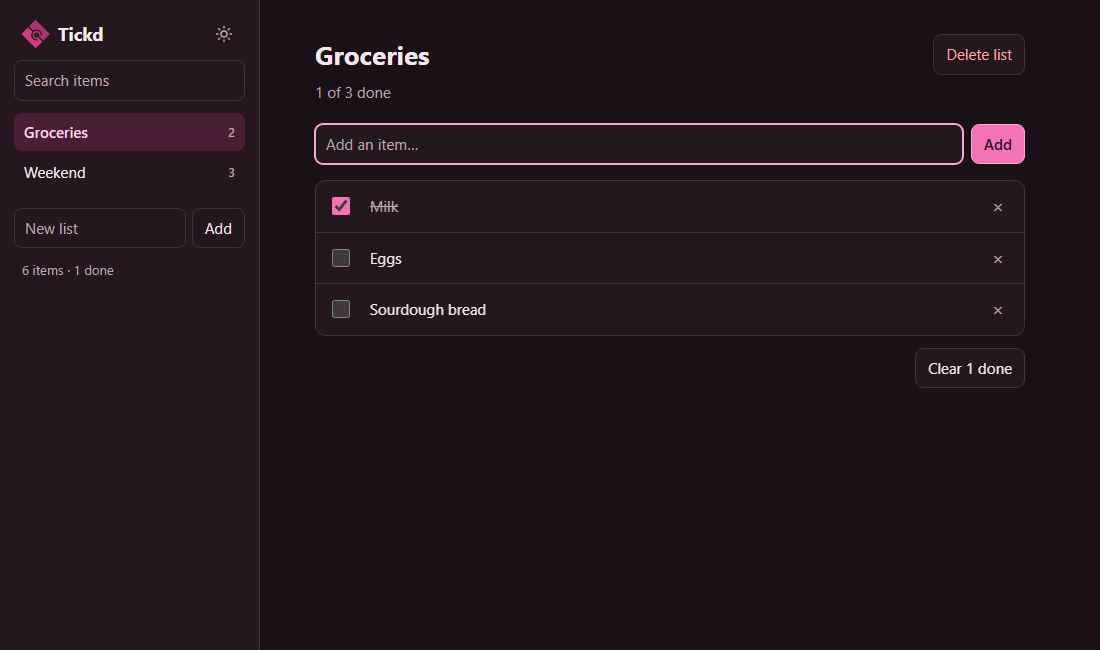
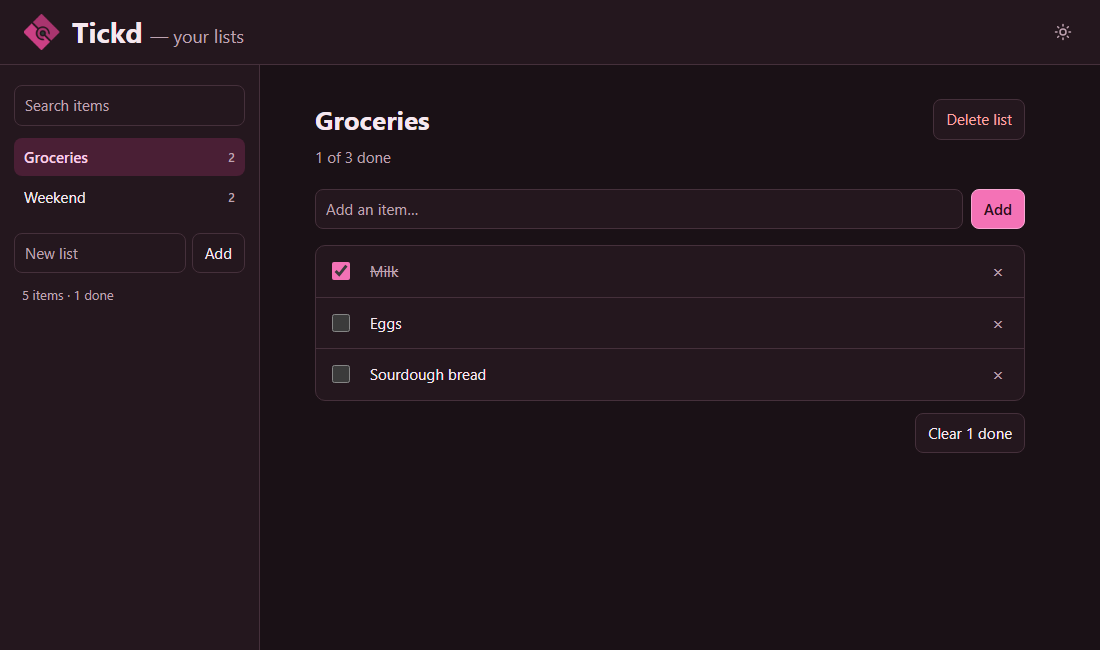
Add a big app title header
A full-width header across the top shows the logo and "Tickd — your
lists" as the page's h1, with the theme toggle on the right. It
replaces the small brand row at the top of the sidebar, which now
starts with search. The content area becomes a <main> landmark.

diff --git a/index.html b/index.html
@@ -52,15 +52,32 @@
       font: 15px/1.5 system-ui, -apple-system, "Segoe UI", Roboto, sans-serif;
       color: var(--ink);
       background: var(--bg);
+      /* Header on top, app columns fill the rest of the screen. */
+      min-height: 100vh;
+      display: flex;
+      flex-direction: column;
     }
     button, input { font: inherit; color: inherit; }
     ::placeholder { color: var(--muted); opacity: 1; }
     button { cursor: pointer; }
 
+    /* App title bar (styled by class only; .header is the list title row inside main). */
+    .topbar {
+      display: flex;
+      align-items: center;
+      gap: 12px;
+      padding: 14px 24px;
+      background: var(--panel);
+      border-bottom: 1px solid var(--line);
+    }
+    .topbar img { width: 36px; height: 36px; flex: none; }
+    .topbar h1 { margin: 0; font-size: 28px; line-height: 1.2; }
+    .tagline { font-size: 18px; font-weight: 400; color: var(--muted); white-space: nowrap; }
+
     .app {
+      flex: 1;
       display: grid;
       grid-template-columns: 260px minmax(0, 1fr);
-      min-height: 100vh;
     }
 
     /* Sidebar */
@@ -72,8 +89,6 @@
       flex-direction: column;
       gap: 12px;
     }
-    .brand { display: flex; align-items: center; gap: 8px; font-size: 18px; font-weight: 700; padding: 0 8px; }
-    .brand img { width: 28px; height: 28px; }
     .lists { list-style: none; margin: 0; padding: 0; display: flex; flex-direction: column; gap: 2px; }
     .list-link {
       width: 100%;
@@ -215,19 +230,22 @@
     @media (max-width: 700px) {
       .app { grid-template-columns: minmax(0, 1fr); grid-template-rows: auto 1fr; }
       .sidebar { border-right: 0; border-bottom: 1px solid var(--line); }
+      .topbar { padding: 12px 16px; }
     }
   </style>
 </head>
 <body>
+  <header class="topbar">
+    <img src="logo.png" alt="">
+    <h1>Tickd <span class="tagline">— your lists</span></h1>
+    <button type="button" class="icon-btn theme-toggle" id="theme-toggle" aria-label="Dark theme" aria-pressed="false">
+      <svg class="moon" viewBox="0 0 24 24" aria-hidden="true"><path d="M21 12.8A9 9 0 1 1 11.2 3a7 7 0 0 0 9.8 9.8z"/></svg>
+      <svg class="sun" viewBox="0 0 24 24" aria-hidden="true"><circle cx="12" cy="12" r="4"/><path d="M12 2v2M12 20v2M2 12h2M20 12h2M4.9 4.9l1.4 1.4M17.7 17.7l1.4 1.4M4.9 19.1l1.4-1.4M17.7 6.3l1.4-1.4"/></svg>
+    </button>
+  </header>
+
   <div class="app">
     <aside class="sidebar">
-      <div class="brand">
-        <img src="logo.png" alt="">Tickd
-        <button type="button" class="icon-btn theme-toggle" id="theme-toggle" aria-label="Dark theme" aria-pressed="false">
-          <svg class="moon" viewBox="0 0 24 24" aria-hidden="true"><path d="M21 12.8A9 9 0 1 1 11.2 3a7 7 0 0 0 9.8 9.8z"/></svg>
-          <svg class="sun" viewBox="0 0 24 24" aria-hidden="true"><circle cx="12" cy="12" r="4"/><path d="M12 2v2M12 20v2M2 12h2M20 12h2M4.9 4.9l1.4 1.4M17.7 17.7l1.4 1.4M4.9 19.1l1.4-1.4M17.7 6.3l1.4-1.4"/></svg>
-        </button>
-      </div>
       <input type="search" id="search" placeholder="Search items" aria-label="Search items in all lists" maxlength="200">
       <p class="search-status" id="search-status" role="status"></p>
       <ul class="lists" id="lists"></ul>
@@ -238,10 +256,10 @@
       <p class="totals" id="totals"></p>
     </aside>
 
-    <div class="main">
+    <main class="main">
       <p class="warning" id="warning" role="alert" hidden>Couldn't save — your browser is blocking or out of storage. Changes will be lost when you close this tab.</p>
       <div id="main"></div>
-    </div>
+    </main>
   </div>
 
   <script>

diff --git a/README.md b/README.md
@@ -32,7 +32,7 @@ Tickd lets you keep as many lists as you like — groceries, to-dos, packing, re
 - **Keyboard friendly** — press Enter to add an item or finish editing; focus stays where you are after each action.
 - **Safe with two tabs open** — a change in one tab shows up in the other instead of being overwritten.
 - **Works on phones** — the layout stacks on narrow screens.
-- **Light and dark themes** — follows your device; the sun/moon button in the sidebar overrides it and remembers your choice (pick your device's theme again to go back to following it).
+- **Light and dark themes** — follows your device; the sun/moon button at the top right of the page overrides it and remembers your choice (pick your device's theme again to go back to following it).
 
 ## Tech stack
 
